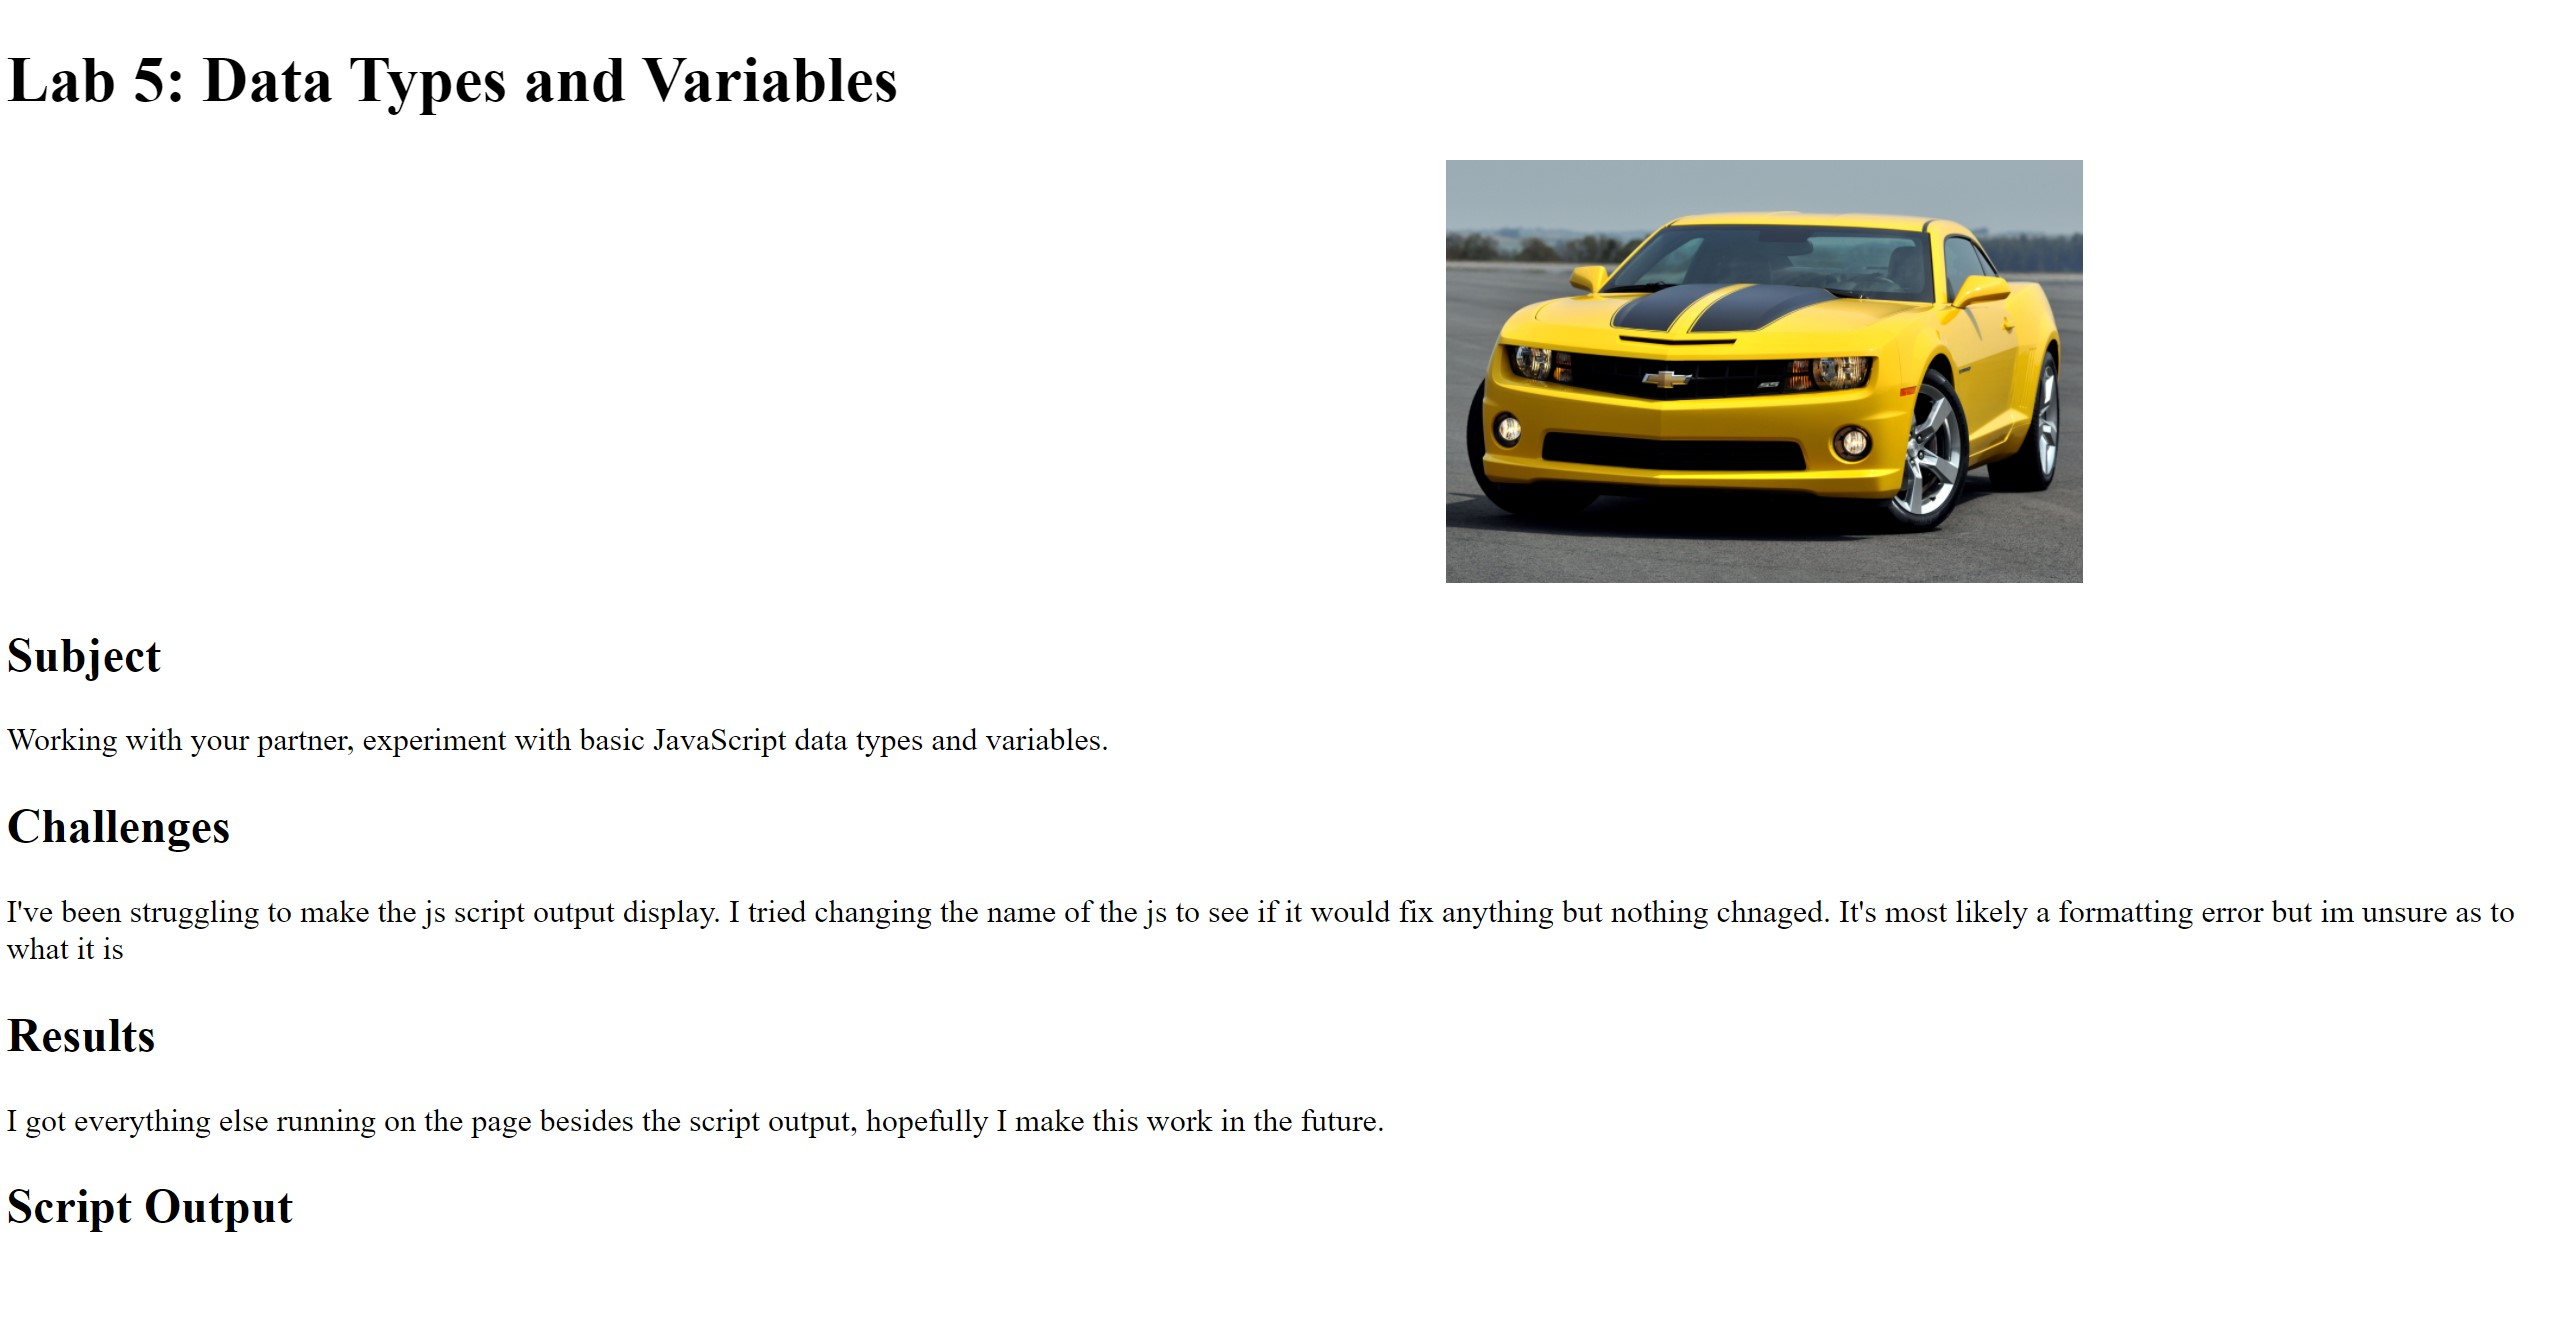
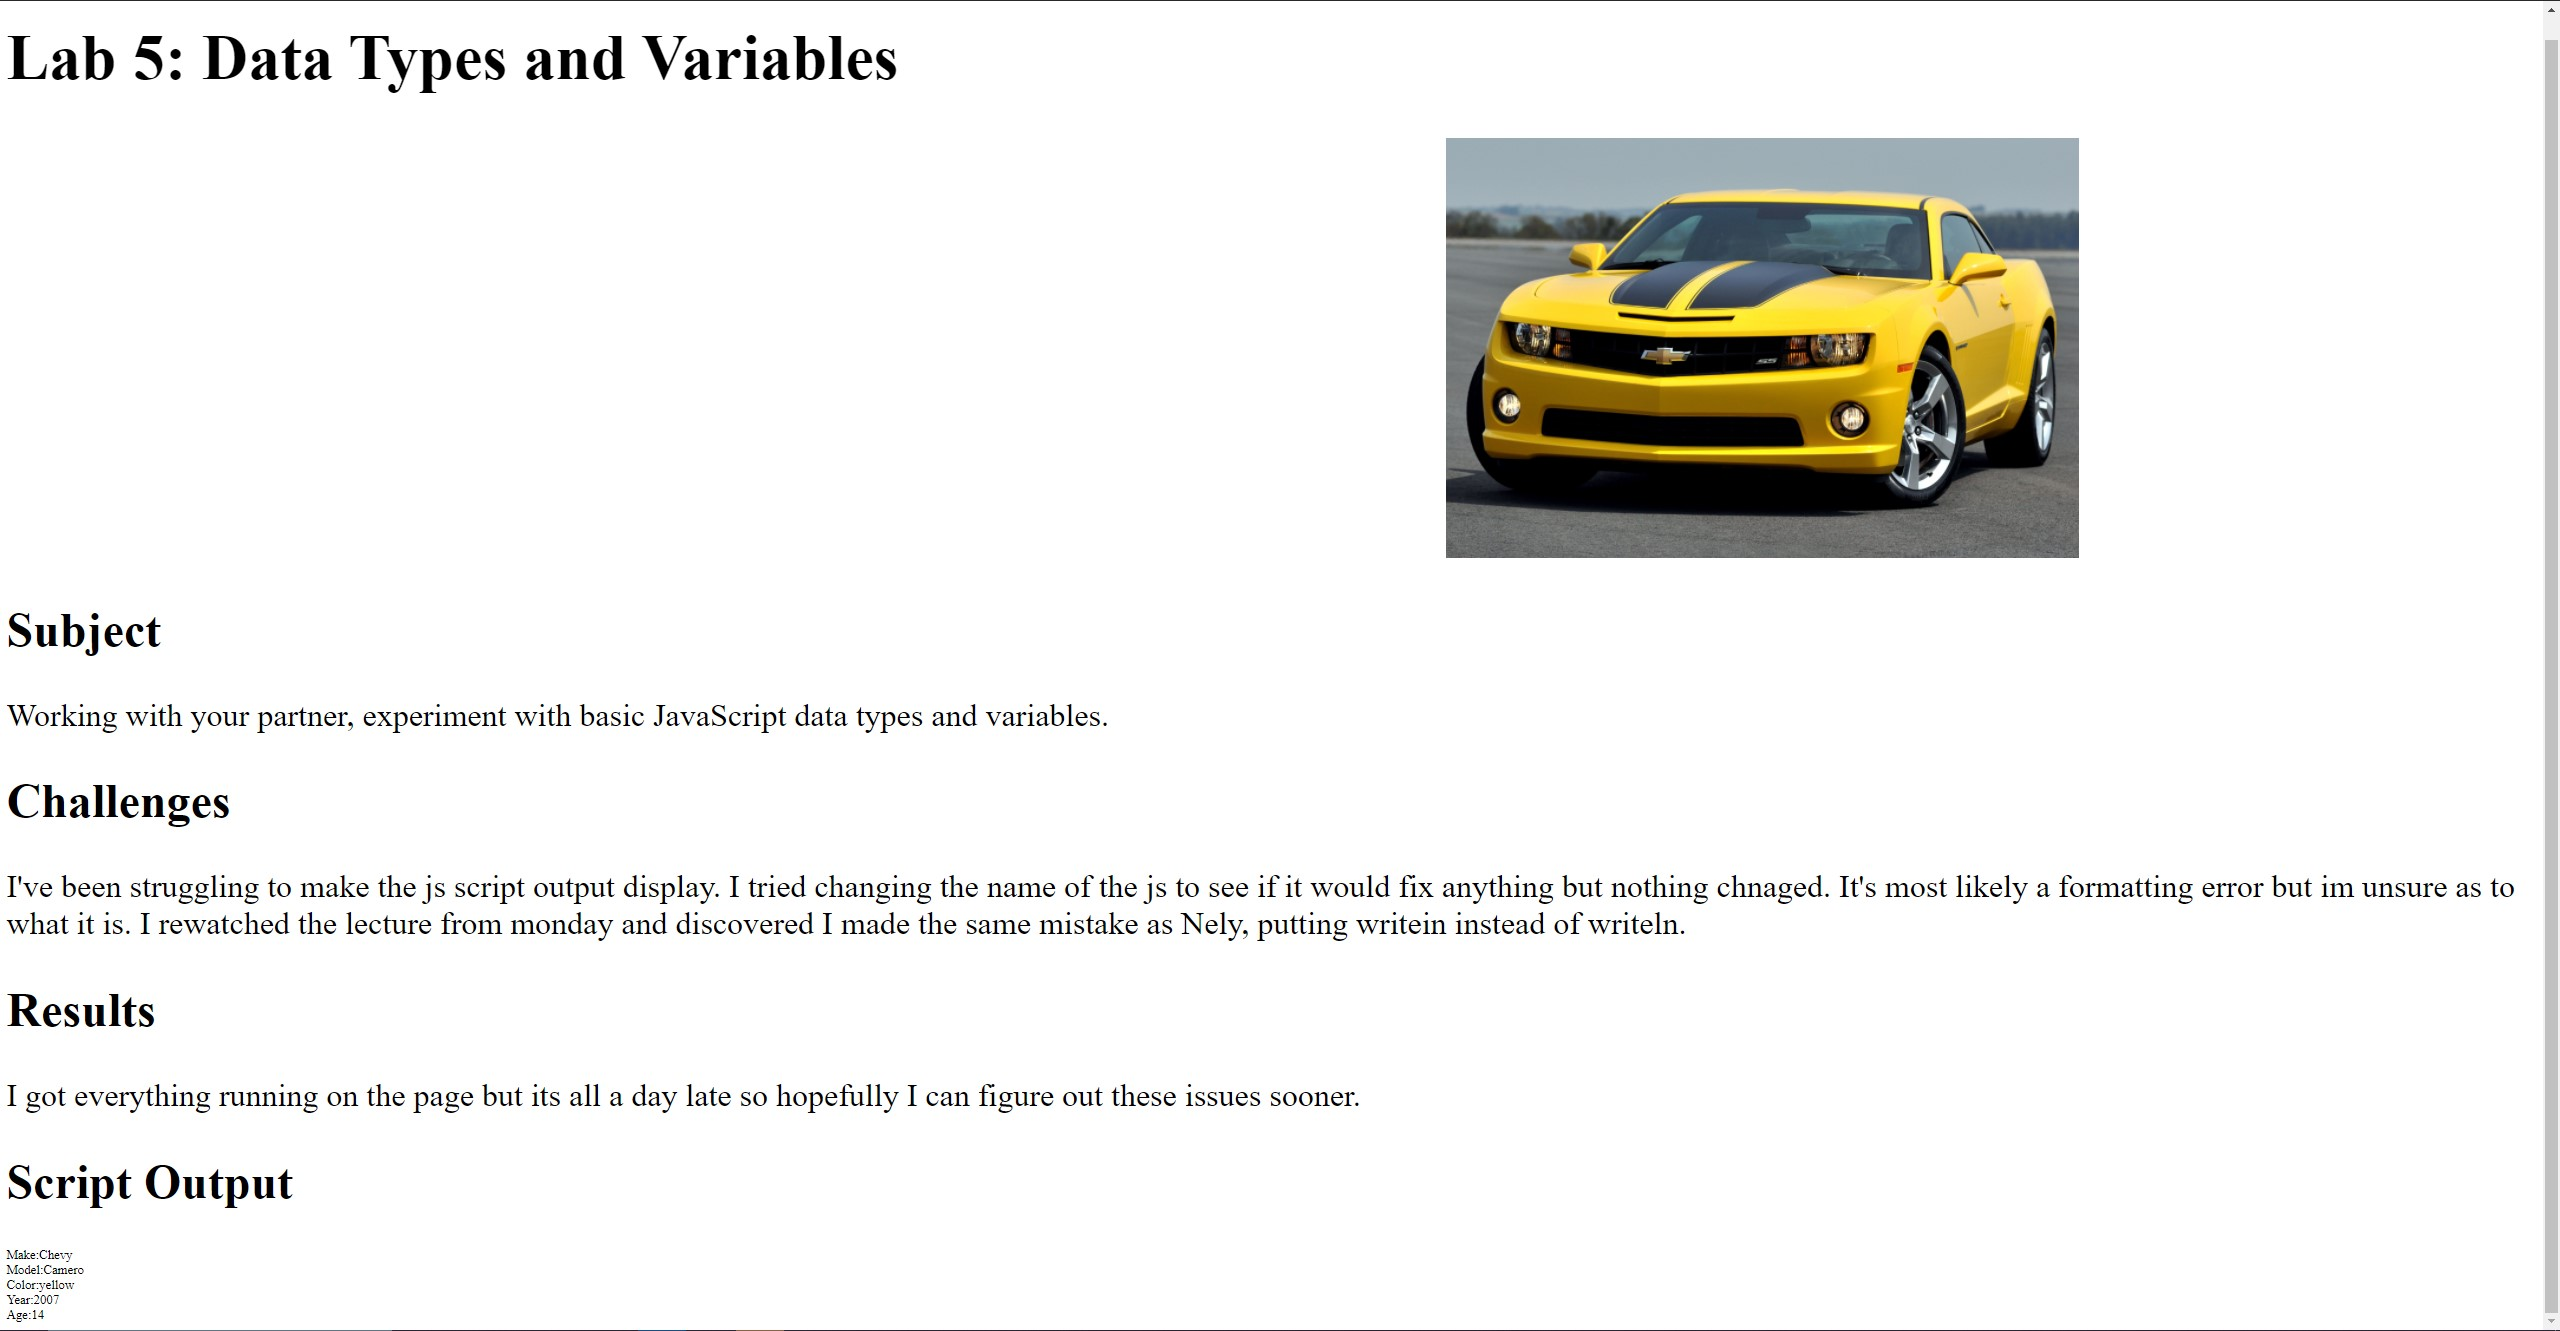
lab_5_final

Changed region(s): [[0.0, 0.0309, 1.0, 1.0], [0.5625, 0.0927, 0.8125, 0.4635], [0.0, 0.0309, 0.375, 0.0927]]

diff --git a/lab5/index.html b/lab5/index.html
@@ -18,12 +18,13 @@
 			<p>I've been struggling to make the js script output display. I tried
 				changing the name of the js to see if it would fix anything but nothing
 				chnaged. It's most likely a formatting error but im unsure as to what it
-				is</p>
+				is. I rewatched the lecture from monday and discovered I made the same
+				mistake as Nely, putting writein instead of writeln.</p>
 		<h2>Results</h2>
-			<p>I got everything else running on the page besides the script output,
-				hopefully I make this work in the future.</p>
+			<p>I got everything running on the page but its all a day late so
+				hopefully I can figure out these issues sooner.</p>
 	</div>
-	<div>
+	<div class="js-output">
 		<h2> Script Output </h2>
 		<script src="js/lab.js"></script>
 	</div>

diff --git a/lab5/js/lab.js b/lab5/js/lab.js
@@ -15,8 +15,8 @@
  age = 2021 - year;
 
  // output
- document.writeIN("Make:" + make +"<br>"):
- document.writeIN("Model:" + model +"<br>"):
- document.writeIN("Color:" + color +"<br>"):
- document.writeIN("Year:" + year +"<br>"):
- document.writeIN("Age:" + age +"<br>"):
+ document.writeln("Make:" + make +"<br>");
+ document.writeln("Model:" + model +"<br>");
+ document.writeln("Color:" + color +"<br>");
+ document.writeln("Year:" + year +"<br>");
+ document.writeln("Age:" + age +"<br>");

diff --git a/lab5/css/lab.css b/lab5/css/lab.css
@@ -1,13 +1,17 @@
 #header {
-
+  border: 5px, black;
 }
 
 #body{
   transform: translateY(1000px);
+  border: 5px, black;
 }
 
 #image{
 
+}
+#js-output{
+  border: 5px, black;
 }
 
 h1{
